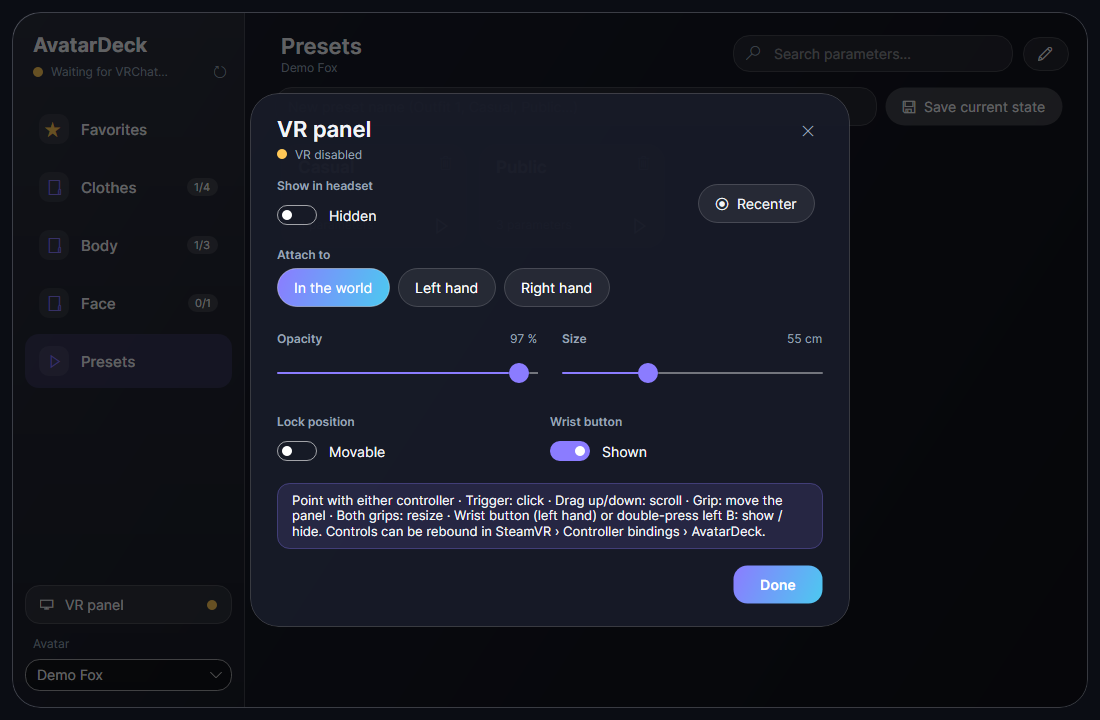
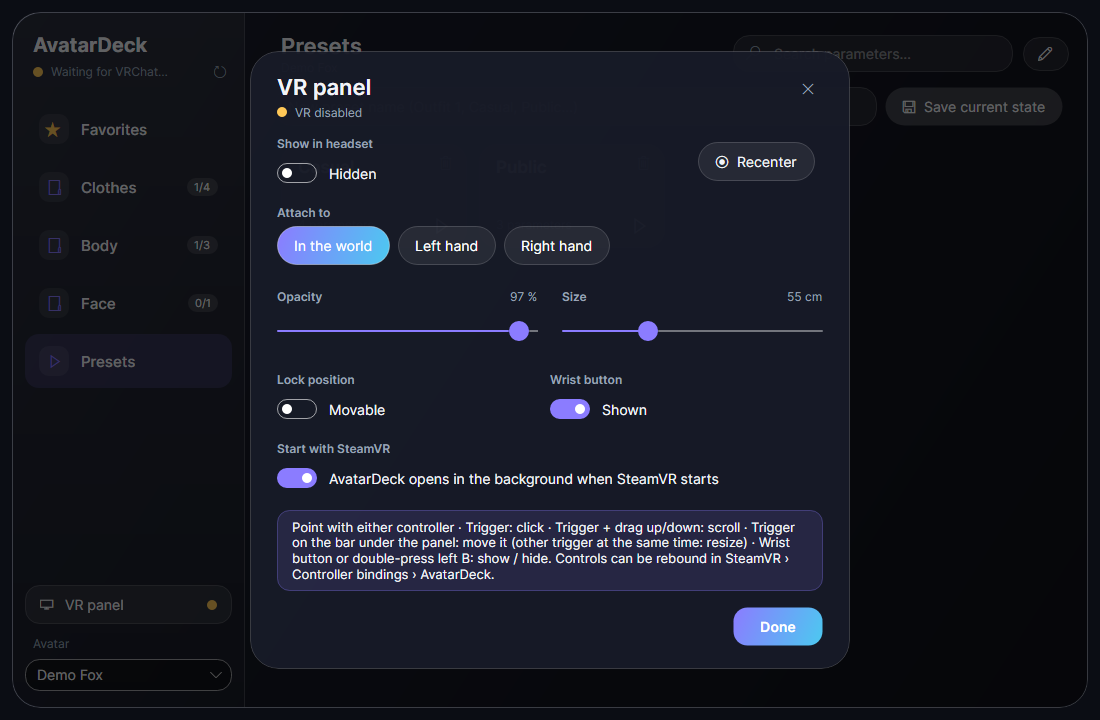
Update README for the 0.1.0 release
Drop the bonus-features phase, link the release download, document SteamVR
auto-start and the tray menu, and refresh the VR settings screenshot.

diff --git a/README.md b/README.md
@@ -4,6 +4,8 @@ A floating VR tablet for SteamVR that controls VRChat avatar parameters over OSC
 a full replacement for the radial (R) menu, built for people whose controller sticks drift.
 Point, click, done: no joystick needed.
 
+**[Download the latest version](https://github.com/Code9914/AvatarDeck/releases/latest)** (`AvatarDeck-win-Setup.exe`)
+
 ![Favorites](docs/screenshots/01-favorites.png)
 
 ## Status
@@ -13,16 +15,16 @@ Point, click, done: no joystick needed.
 | 1 | Solution skeleton, DI host, logging, dark glass theme | ✅ |
 | 2 | OSC codec, UDP transport, VRChat client, avatar change detection, full-state sync (OSCQuery) | ✅ |
 | 3 | Domain model, JSON profiles, auto-generation from VRChat OSC config | ✅ |
-| 4 | Tablet UI: tabs, folders/pages, search, favorites, presets, toasts | ✅ first version |
+| 4 | Tablet UI: tabs, folders/pages, search, favorites, presets, toasts, layout edit mode | ✅ |
 | 5 | SteamVR overlay (offscreen render → D3D11 → `IVROverlay`) | ✅ |
 | 6 | Laser pointer, trigger click, drag-scroll, grab/move/resize, lock, opacity, wrist button | ✅ |
 | 7 | Unity project importer (Expression Parameters / Menus) | ⏳ |
-| 8 | Macros, hotkeys, local API, MIDI, Stream Deck, plugins, themes, import/export | ⏳ |
-| 9 | Footprint tuning (< 100 MB, < 1 % CPU idle), installer, SteamVR auto-start, tray | ✅ |
+| 8 | Footprint tuning (< 100 MB, < 1 % CPU idle), installer, SteamVR auto-start, tray | ✅ |
 
 ## Install
 
-Run `AvatarDeck-win-Setup.exe` (built with `./build/pack.ps1`, see below). It installs per user — no admin rights,
+Download `AvatarDeck-win-Setup.exe` from the [releases](https://github.com/Code9914/AvatarDeck/releases/latest) and run it
+(`AvatarDeck-win-Portable.zip` runs without installing). It installs per user — no admin rights,
 no .NET install needed — into `%LocalAppData%\AvatarDeck`, adds Start menu and desktop shortcuts, and starts the app.
 
 - **Start with SteamVR**: the first time AvatarDeck sees SteamVR it registers itself (`avatardeck.vrmanifest`) and
@@ -33,7 +35,7 @@ no .NET install needed — into `%LocalAppData%\AvatarDeck`, adds Start menu and
 - **Updates**: installed builds check the GitHub releases 30 s after start, download in the background and install
   when you quit (silently skipped if there is no release or no network).
 
-Footprint (Release, i7 desktop, avatar with 350 parameters): ~24 MB in the background, ~47 MB private / 115 MB
+Footprint (Release build, avatar with 350 parameters): ~24 MB in the background, ~47 MB private / 115 MB
 working set with the desktop window open, < 0.2 % CPU idle. The UI renders on the CPU (`Win32RenderingMode.Software`):
 the VR panel is rasterised on the CPU anyway, and skipping the GPU backend saves ~50 MB. When nothing is on screen
 the app compacts its heap and trims its working set.
@@ -72,28 +74,29 @@ dotnet run --project tools/OscSniffer -- --avatar avtr_demo
 
 ## VR panel (SteamVR)
 
-Start SteamVR, then AvatarDeck (any order — it waits for SteamVR and never launches it). The panel works with
-VRChat in OpenVR or OpenXR mode on PC (both run on the SteamVR runtime).
+With "Start with SteamVR" on, SteamVR starts AvatarDeck by itself. Otherwise start both in any order: AvatarDeck
+waits for SteamVR and never launches it. The panel works with VRChat in OpenVR or OpenXR mode on PC (both run on
+the SteamVR runtime).
 
 | Action | Default (Index) — trigger only, the grip stays free for the game |
 |---|---|
-| Show / hide | Trigger tap on the wrist button (left hand), double-press left **B**, or "VR panel" on the desktop |
+| Show / hide | Trigger tap on the wrist button (left hand), double-press left **B**, "VR panel" on the desktop, or the tray menu |
 | Click | Point with either controller, **trigger** (the aim is frozen as the trigger starts moving, plus a small dead zone) |
 | Scroll | Trigger held + drag up/down (no thumbstick) |
 | Move | Trigger held on the **handle** under the panel — the panel keeps facing you |
 | Resize | While moving, pull the other hand's trigger and spread / bring hands together |
 | Move the wrist button | Trigger held on it + move (position remembered) |
 
-"VR panel" settings: attach to the world or a hand, opacity, size, lock, wrist button, recenter.
+"VR panel" settings: attach to the world or a hand, opacity, size, lock, wrist button, start with SteamVR, recenter.
 Bindings can be changed in SteamVR › Settings › Controllers › Manage controller bindings › AvatarDeck.
 
 How it works: the same `MainView` is hosted in a hidden window, rendered to pixels only when something changes,
 and uploaded as a fresh shared D3D11 texture into two stacked overlays used alternately (the back one stays visible
 at 2 % opacity: SteamVR defers updates of hidden overlays). After each swap a tiny invisible "kick" overlay is
 touched, because SteamVR only redraws a GPU-textured overlay once another overlay of the process changes.
-`SetOverlayRaw` was tried too: SteamVR refuses every raw upload of the process after ~190 full-panel uploads. The laser is AvatarDeck's own (ray/panel intersection, aim from the
-controller pose with the measured Index tip offset), injected as Win32 mouse messages — so the game keeps all
-controller input. Int avatar parameters are shown as − value + steppers (range editable).
+`SetOverlayRaw` was tried too: SteamVR refuses every raw upload of the process after ~190 full-panel uploads.
+The laser is AvatarDeck's own (ray/panel intersection, aim from the controller pose with the measured Index tip
+offset), injected as Win32 mouse messages — so the game keeps all controller input. Int avatar parameters are shown as − value + steppers (range editable).
 OpenVR bindings: Valve's official `openvr_api.cs` (vendored, BSD-3); `openvr_api.dll` is loaded from SteamVR.
 
 Diagnostics:
@@ -145,10 +148,13 @@ src/
   AvatarDeck.UI              Avalonia views + MVVM view models, Glass theme, off-screen VR surface
   AvatarDeck.VR              SteamVR overlay service: overlays, laser, grab/resize, input actions, D3D11 upload
   AvatarDeck.VR.OpenVR       Valve's official OpenVR C# bindings (vendored, unmodified)
-  AvatarDeck.App             composition root: generic host, DI, Serilog, Avalonia startup
-tests/                       xUnit: codec, loopback UDP client, persistence, profile generation
+  AvatarDeck.App             composition root: generic host, DI, Serilog, Avalonia startup, single instance,
+                             Velopack hooks and updates, SteamVR manifest
+tests/                       xUnit: codec, loopback UDP client, persistence, profile generation, VR math
 tools/OscSniffer             fake VRChat for development
 tools/UiSnapshot             headless offscreen renderer → PNG
+tools/make_icon.py           generates the app icon (no dependencies)
+build/pack.ps1               publish + Velopack installer
 docs/adr/                    architecture decision records
 ```
 
